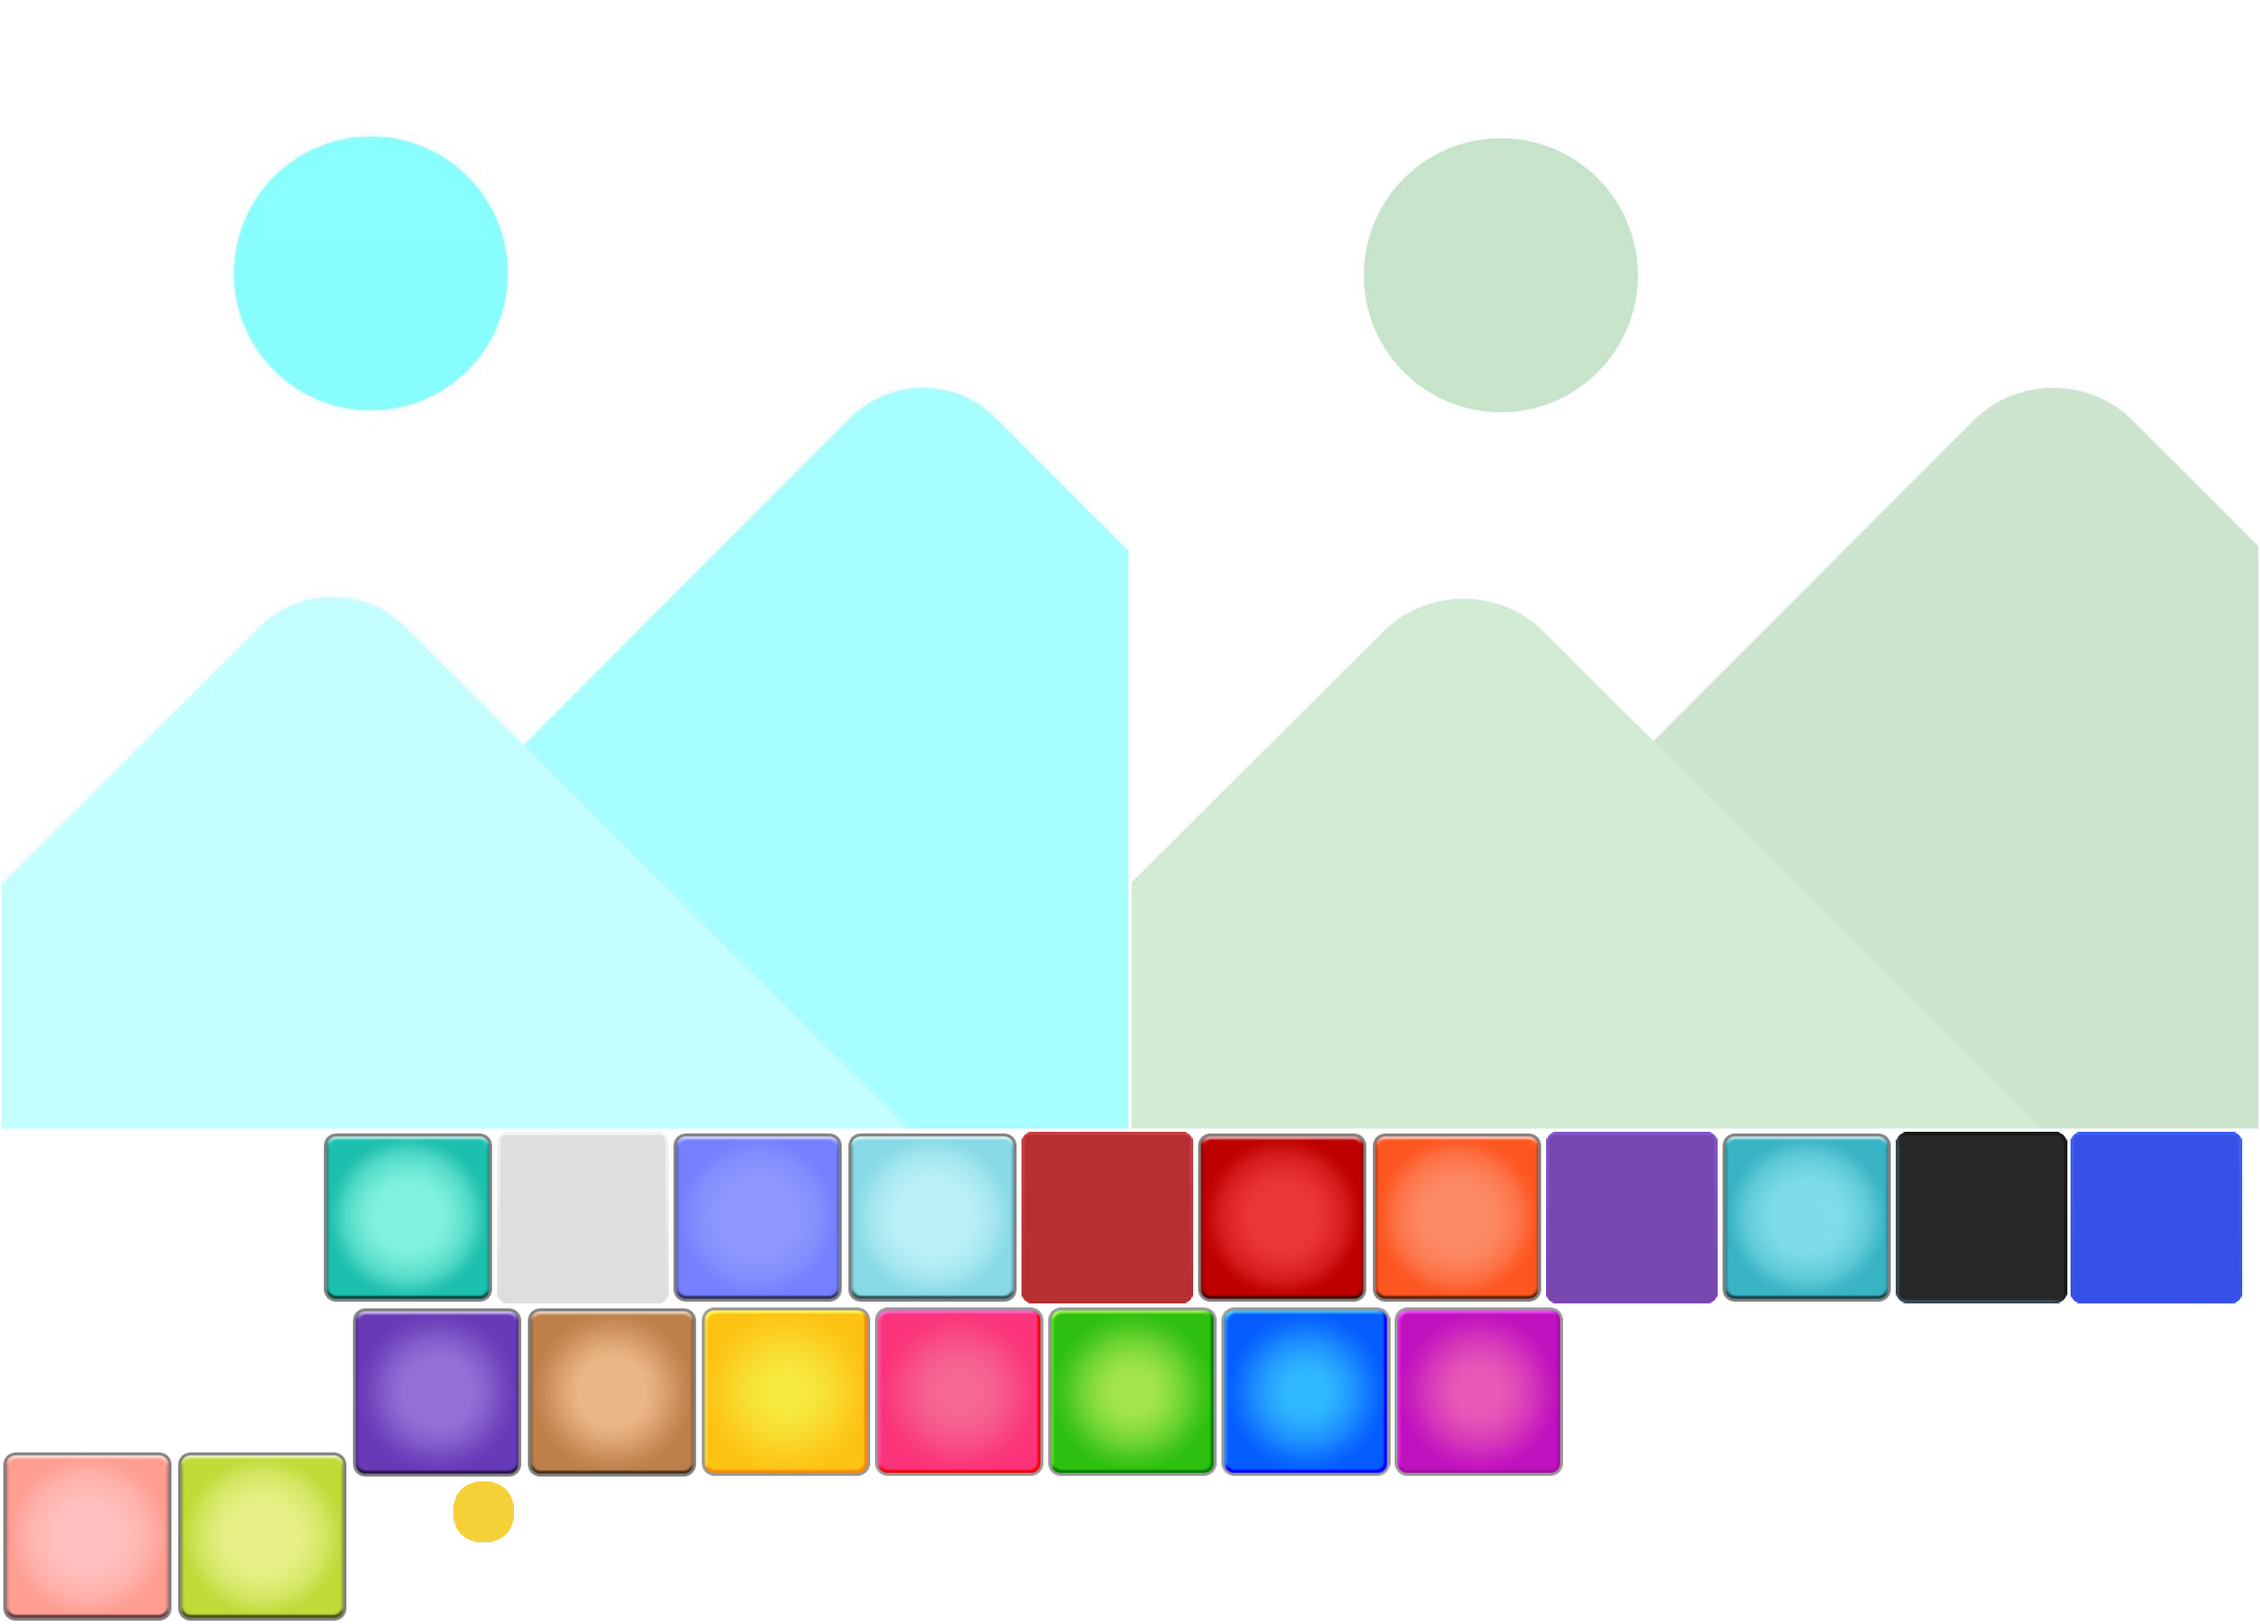
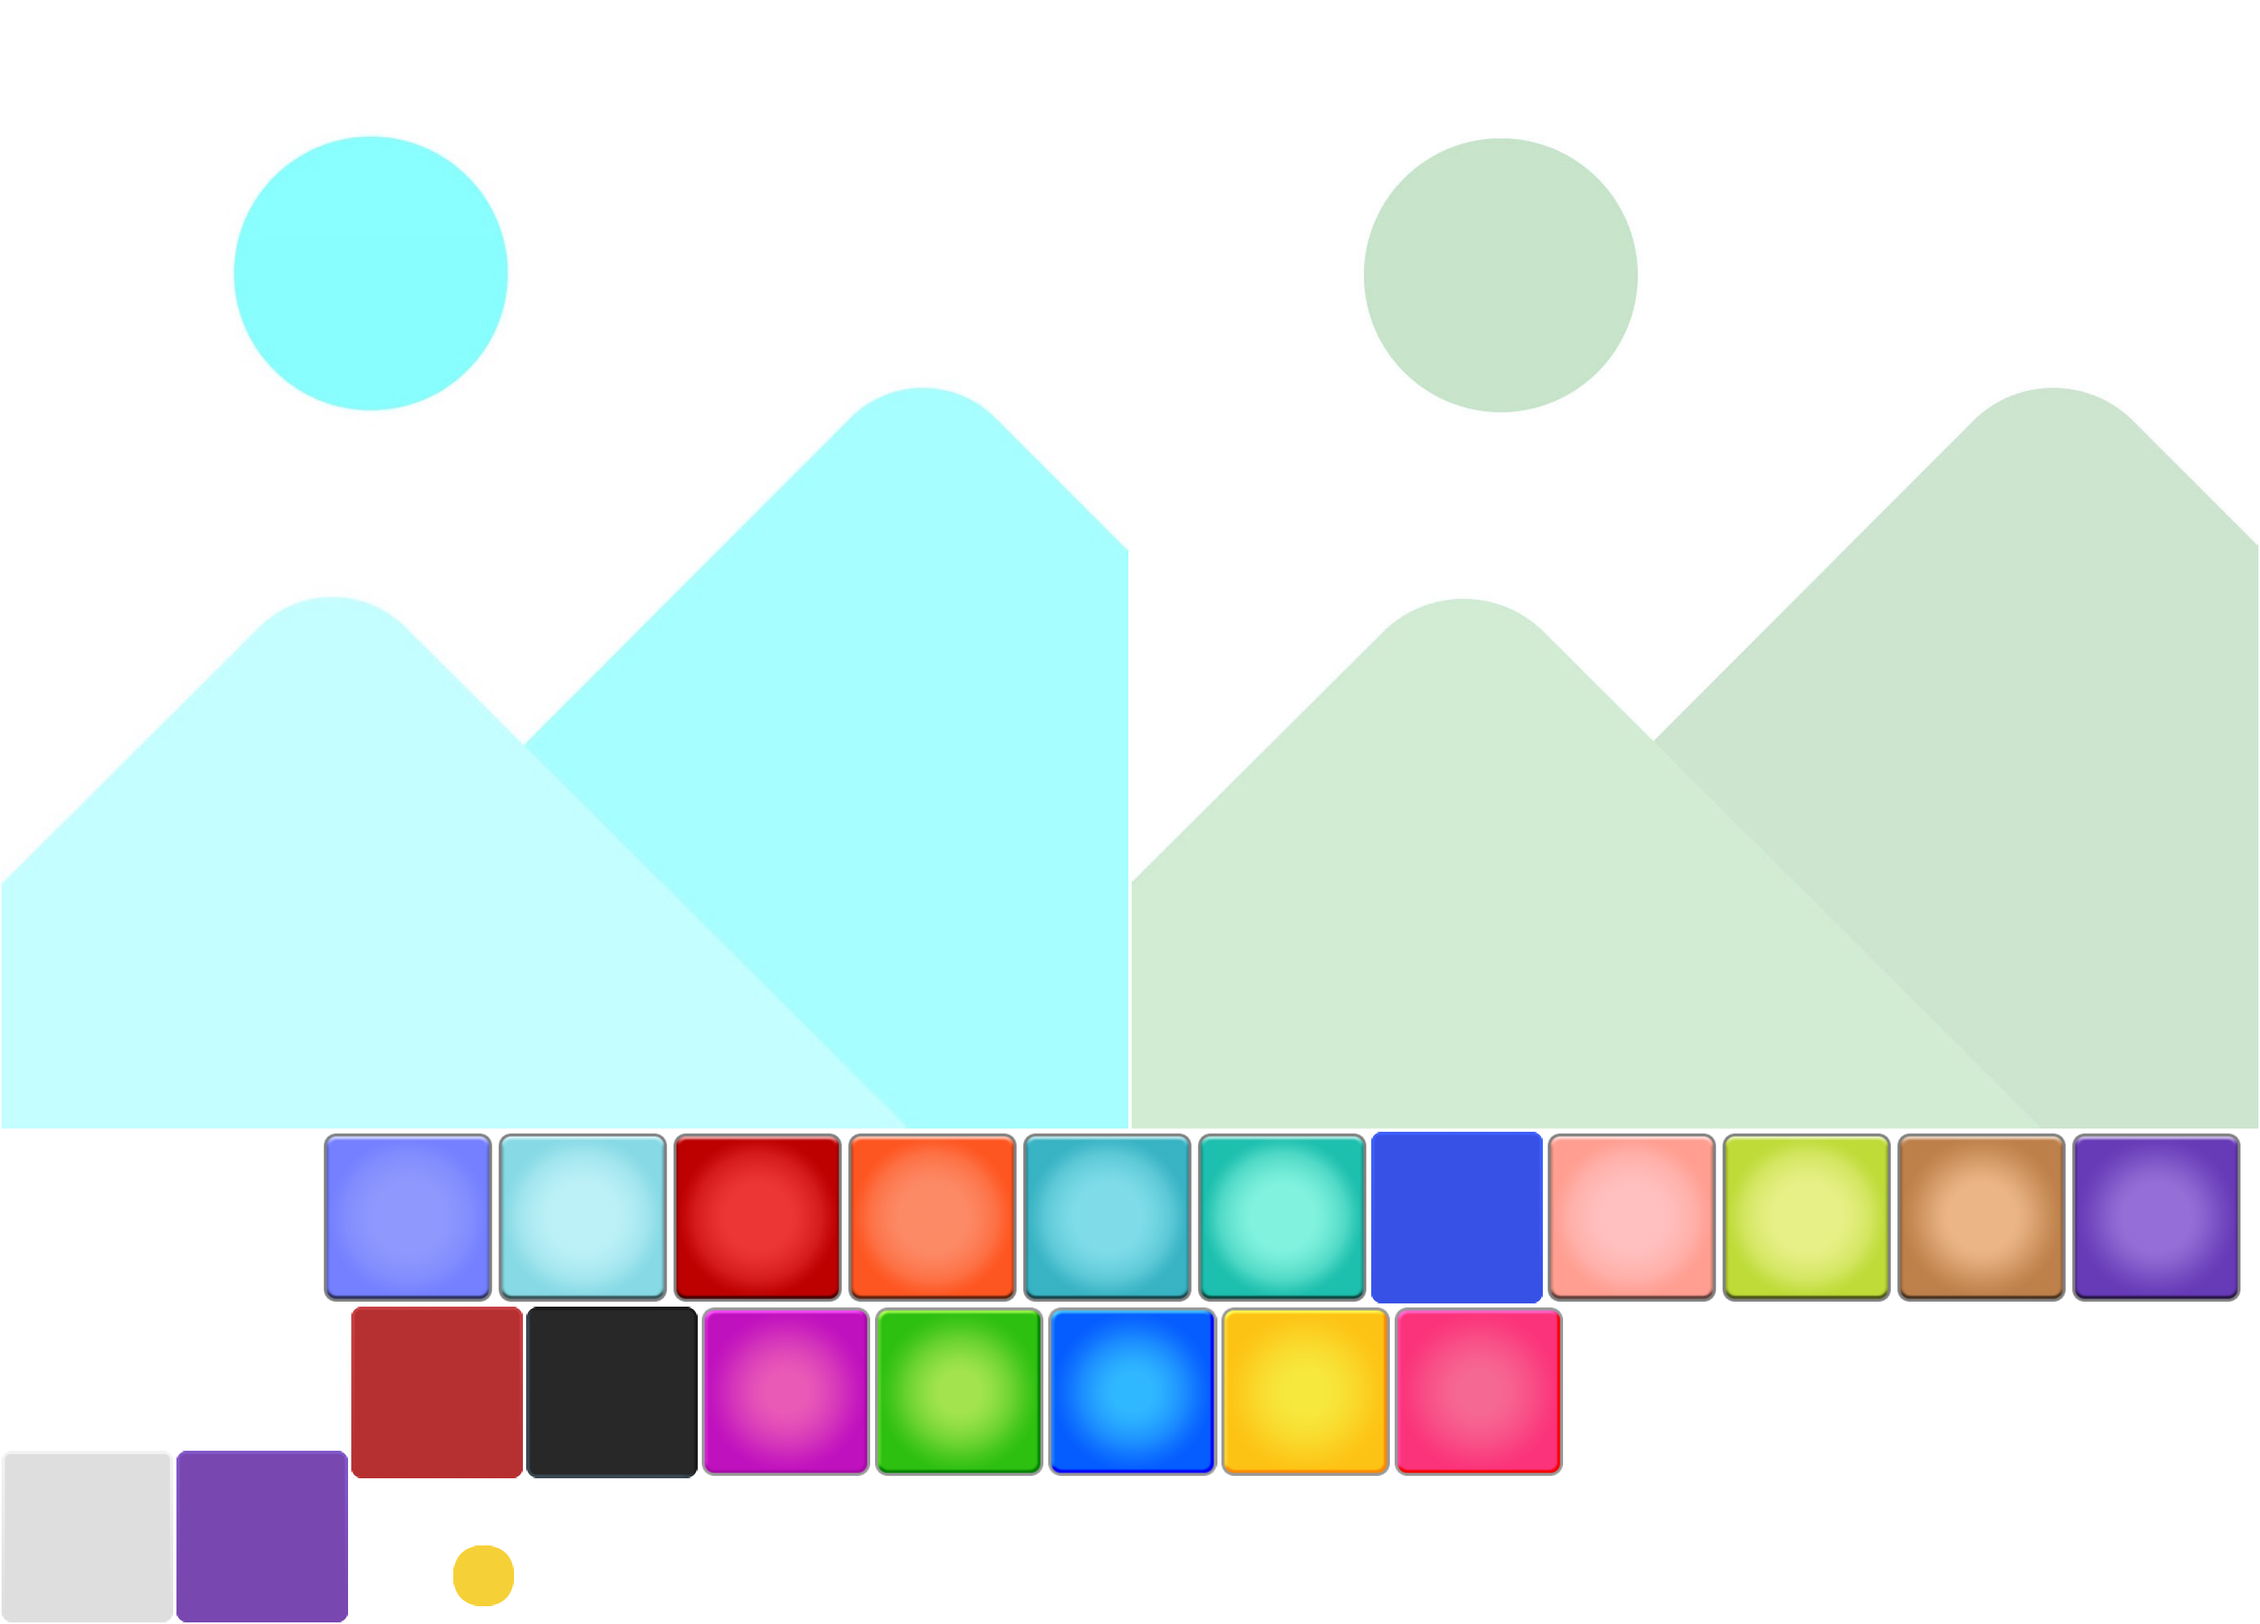
Score Component.

Changed region(s): [[0.0, 0.68, 0.9971, 1.0]]

diff --git a/src/views/play-view.ts b/src/views/play-view.ts
@@ -1,13 +1,16 @@
 import { lego } from '@armathai/lego';
 import { ICellConfig, PixiGrid } from '@armathai/pixi-grid';
+import { NineSlicePlane } from 'pixi.js';
 import { getPlayGridConfig } from '../constants/configs/grid-configs';
 import { BoardModelEvent, PlayModelEvent } from '../events/model';
 import { BoardModel, BoardState } from '../models/board-model';
 import { lp } from '../utils';
 import { BoardView } from './board-view';
+import { ScoreComponent } from './score-component';
 
 export class PlayView extends PixiGrid {
     private _board: BoardView;
+    private _popUp: NineSlicePlane;
 
     public constructor() {
         super();
@@ -30,19 +33,17 @@ export class PlayView extends PixiGrid {
 
     // BOARD
     private _onBoardUpdate(board: BoardModel): void {
-        // board ? this._buildBoard() : this._destroyBoard();
         board ? this._buildBoard() : false;
     }
 
     private _onBoardStateUpdate(state: BoardState): void {
-        // board ? this._buildBoard() : this._destroyBoard();
-        // switch (state) {
-        // case BoardState.showResult:
-        //     this._buildScoreComponent();
-        //     break;
-        // default:
-        //     break;
-        // }
+        switch (state) {
+            case BoardState.play:
+                this._buildScoreComponent();
+                break;
+            default:
+                break;
+        }
     }
 
     private _buildBoard(): void {
@@ -56,9 +57,12 @@ export class PlayView extends PixiGrid {
     private _destroyBoard(): void {
         this._board.destroy();
     }
+
     // score-component
+
     private _buildScoreComponent(): void {
-        // board ? this._buildBoard() : this._destroyBoard();
+        const score = new ScoreComponent();
+        this.setChild('popUp', (this._popUp = score));
     }
 
     private _destroyScoreComponent(): void {

diff --git a/src/assets/textures.ts b/src/assets/textures.ts
@@ -4,27 +4,28 @@ export const textures = {
     'cta/bg': 'cta/bg.jpg',
     'play/bg': 'play/bg.jpg',
     'pads/glow': 'pads/glow.png',
-    'pads/color3_3': 'pads/color3_3.png',
-    'pads/white': 'pads/white.png',
     'pads/color1_2': 'pads/color1_2.png',
     'pads/color1_3': 'pads/color1_3.png',
-    'pads/red': 'pads/red.png',
     'pads/color2_2': 'pads/color2_2.png',
     'pads/color2_3': 'pads/color2_3.png',
-    'pads/purple': 'pads/purple.png',
     'pads/color3_2': 'pads/color3_2.png',
-    'pads/black': 'pads/black.png',
+    'pads/color3_3': 'pads/color3_3.png',
     'pads/blue': 'pads/blue.png',
     'pads/color4_2': 'pads/color4_2.png',
     'pads/color4_3': 'pads/color4_3.png',
-    'pads/color5_3': 'pads/color5_3.png',
     'pads/color5_2': 'pads/color5_2.png',
-    'pads/color5_1': 'pads/color5_1.png',
-    'pads/color4_1': 'pads/color4_1.png',
+    'pads/color5_3': 'pads/color5_3.png',
+    'pads/white': 'pads/white.png',
+    'pads/purple': 'pads/purple.png',
+    'pads/red': 'pads/red.png',
+    'pads/black': 'pads/black.png',
+    'pads/color1_1': 'pads/color1_1.png',
     'pads/color3_1': 'pads/color3_1.png',
     'pads/color2_1': 'pads/color2_1.png',
-    'pads/color1_1': 'pads/color1_1.png',
+    'pads/color5_1': 'pads/color5_1.png',
+    'pads/color4_1': 'pads/color4_1.png',
     'pads/circle': 'pads/circle.png',
+    'play/score_bg': 'play/score_bg.png',
     'play/tutorial_bg': 'play/tutorial_bg.png',
     'ui/logo': 'ui/logo.png',
     'animations/scroll/5': 'animations/scroll/5.png',
@@ -38,6 +39,7 @@ export const textures = {
     token: 'token.png',
     'ui/cta_play_button': 'ui/cta_play_button.png',
     'ui/hand': 'ui/hand.png',
+    'ui/cta_btn': 'ui/cta_btn.png',
     'ui/persistent_cta_button': 'ui/persistent_cta_button.png',
     star: 'star.png',
     'ui/sound_on': 'ui/sound_on.png',

diff --git a/src/views/score-component.ts b/src/views/score-component.ts
@@ -1,0 +1,43 @@
+import { NineSlicePlane, Texture } from 'pixi.js';
+import { getScoreNextLevelButtonConfig } from '../constants/configs/button-configs';
+import { getScoreNumberConfig, getScorePopUpTextConfig } from '../constants/configs/text-configs';
+import { store } from '../models/store';
+import { makeText } from '../utils';
+import { Button } from '../utils/button';
+
+export class ScoreComponent extends NineSlicePlane {
+    private _bg: NineSliceConfig;
+
+    public constructor() {
+        super(Texture.from('play/score_bg.png'), 24, 24, 24, 24);
+        this.width = 800;
+        this.height = 350;
+        this.name = 'ForegroundView';
+        this._build();
+    }
+
+    private _build(): void {
+        this._buildBtn();
+        this._buildText();
+    }
+
+    private _buildText(): void {
+        const text = makeText(getScorePopUpTextConfig());
+        const scoreNumbers = makeText(getScoreNumberConfig(store.play.board.score));
+        // console.warn(store.play.board.score, 'SCORE');
+        scoreNumbers.position.set(420, 180);
+        text.position.set(420, 100);
+        this.addChild(text);
+        this.addChild(scoreNumbers);
+    }
+
+    private _buildBtn(): void {
+        const btn = new Button(getScoreNextLevelButtonConfig());
+        btn.position.set(55, 260);
+        btn.interactive = true;
+        // btn.on('pointerup', () => {
+        //     lego.event.emit(PlayViewEvent.onScoreBtnClick);
+        // });
+        this.addChild(btn);
+    }
+}

diff --git a/src/constants/configs/text-configs.ts b/src/constants/configs/text-configs.ts
@@ -58,6 +58,43 @@ export const getTraditionalCtaPrimaryButtonUpTextConfig = (): TextConfig => {
     };
 };
 
+export const getScorePopUpTextConfig = (): TextConfig => {
+    return {
+        text: localization.t(phrases['your score' as keyof typeof phrases]),
+        style: new TextStyle({
+            fontFamily: ['solomon-sans-black'],
+            fontSize: 52,
+            fill: '#000000',
+            align: 'center',
+        }),
+    };
+};
+
+export const getScoreNumberConfig = (score: number): TextConfig => {
+    return {
+        text: `${score}`,
+        style: new TextStyle({
+            fontFamily: ['solomon-sans-black'],
+            fontSize: 52,
+            fill: '#000000',
+            align: 'center',
+        }),
+    };
+};
+
+export const getScoreNextLevelButtonConfigUpTextConfig = (): TextConfig => {
+    return {
+        text: localization.t(phrases['Next' as keyof typeof phrases]),
+        // y: -3,
+        style: new TextStyle({
+            fontFamily: fonts['solomon-sans-black'],
+            fontSize: 60,
+            fill: '#000000',
+            align: 'center',
+        }),
+    };
+};
+
 export const getTraditionalCtaPopupTitleTextConfig = (): TextConfig => {
     return {
         text: localization.t(phrases['GREAT JOB!']),

diff --git a/src/constants/configs/button-configs.ts b/src/constants/configs/button-configs.ts
@@ -1,11 +1,13 @@
 import {
     getPersistentCtaButtonUpPatchesConfig,
+    getScoreNextLevelButtonConfigUpConfigs,
     getStarRatingCtaPrimaryButtonUpPatchesConfig,
     getStarRatingCtaSecondaryButtonUpPatchesConfig,
     getTraditionalCtaPrimaryButtonUpPatchesConfig,
 } from './nineslice-configs';
 import {
     getPersistentCtaButtonUpTextConfig,
+    getScoreNextLevelButtonConfigUpTextConfig,
     getStarRatingCtaPrimaryButtonUpTextConfig,
     getStarRatingCtaSecondaryButtonUpTextConfig,
     getTraditionalCtaPrimaryButtonUpTextConfig,
@@ -51,6 +53,17 @@ export const getStarRatingCtaSecondaryButtonConfig = (): ButtonConfig => {
             up: {
                 bg: getStarRatingCtaSecondaryButtonUpPatchesConfig(),
                 label: getStarRatingCtaSecondaryButtonUpTextConfig(),
+            },
+        },
+    };
+};
+
+export const getScoreNextLevelButtonConfig = (): ButtonConfig => {
+    return {
+        states: {
+            up: {
+                bg: getScoreNextLevelButtonConfigUpConfigs(),
+                label: getScoreNextLevelButtonConfigUpTextConfig(),
             },
         },
     };

diff --git a/src/constants/configs/nineslice-configs.ts b/src/constants/configs/nineslice-configs.ts
@@ -89,3 +89,21 @@ export const getTutorialPopUpConfigs = (): NineSliceConfig => {
         height: 350,
     };
 };
+
+export const getScoreBoxConfig = (): NineSliceConfig => {
+    return {
+        texture: textures['play/score_bg'],
+        data: [24, 24, 24, 24],
+        width: 800,
+        height: 350,
+    };
+};
+
+export const getScoreNextLevelButtonConfigUpConfigs = (): NineSliceConfig => {
+    return {
+        texture: textures['ui/cta_btn'],
+        data: [13, 13, 13, 19],
+        width: 700,
+        height: 50,
+    };
+};

diff --git a/src/localization/phrases.ts b/src/localization/phrases.ts
@@ -16,4 +16,6 @@ export const phrases = {
     '4.5 out of 5 stars': '4.5 out of 5 stars',
     'TAP TO LISTEN': 'TAP TO LISTEN',
     'TAP TO REPEAT THE RHYTHM': 'TAP TO REPEAT THE RHYTHM',
+    'your score': 'your score',
+    Next: 'Next',
 };
